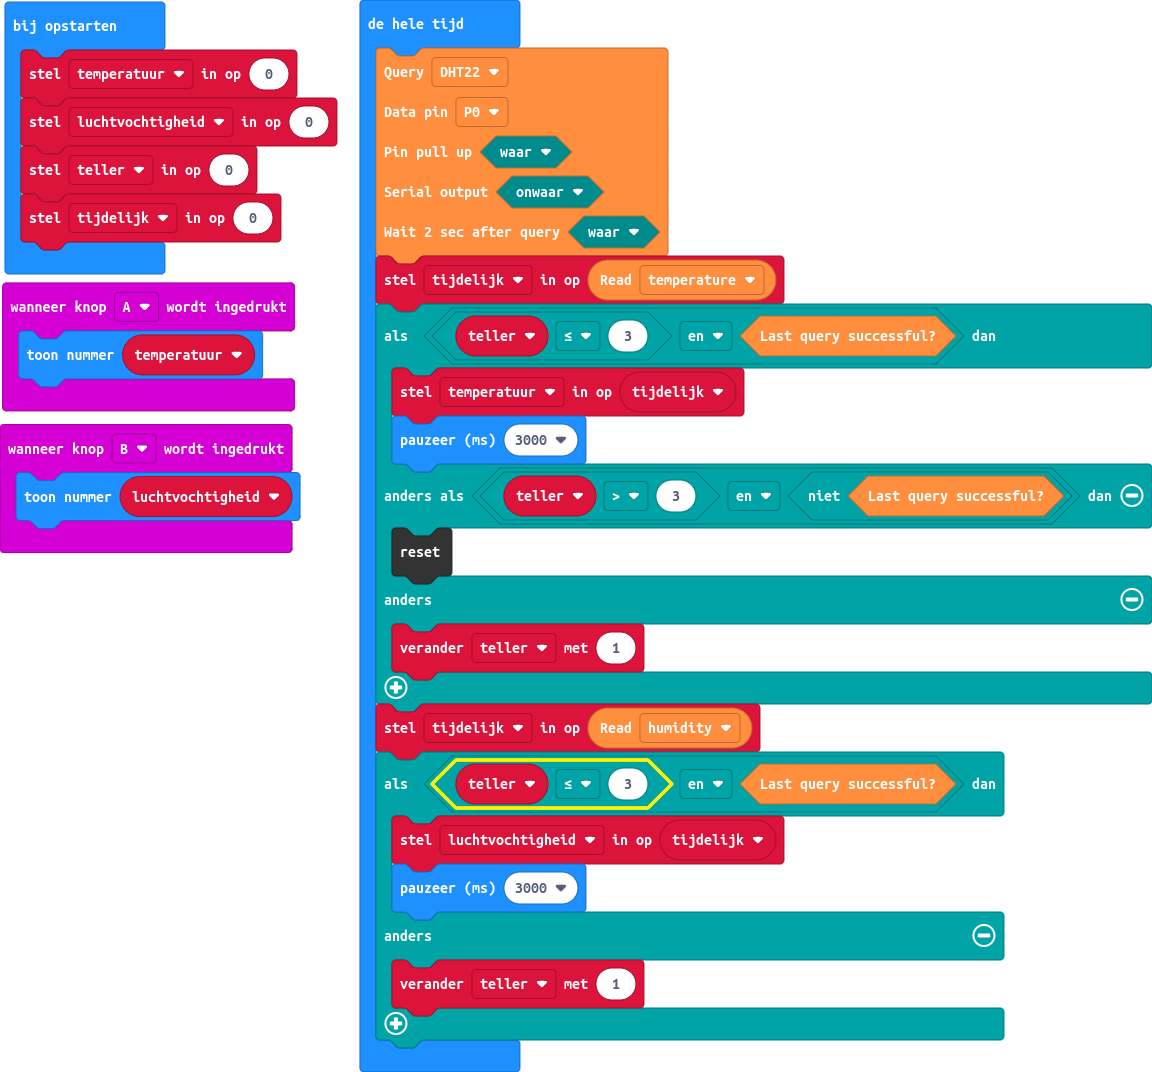
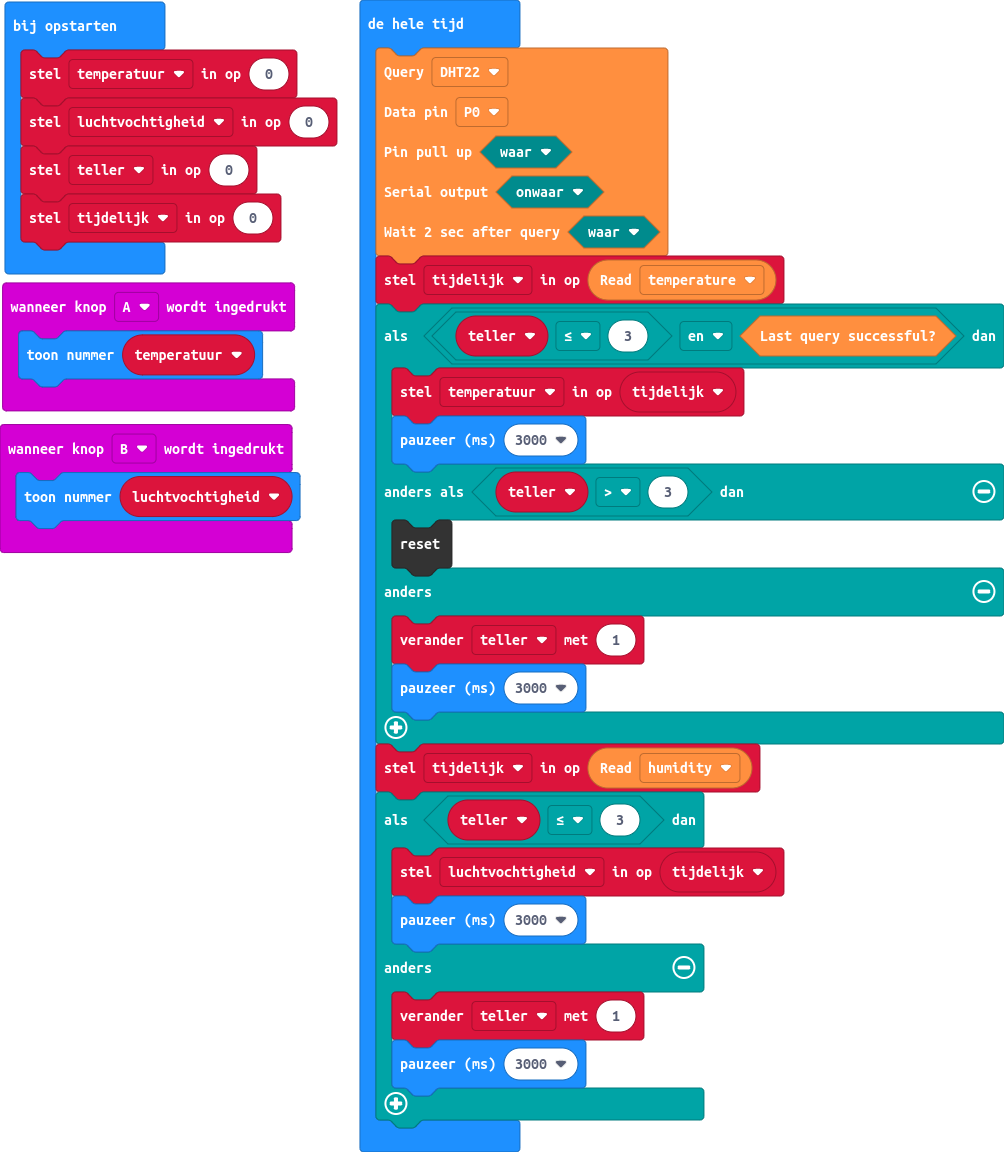
Code eenvoudiger gemaakt + extra vertraging na verhogen teller

diff --git a/main.ts b/main.ts
@@ -22,16 +22,18 @@ basic.forever(function () {
     if (teller <= 3 && dht11_dht22.readDataSuccessful()) {
         temperatuur = tijdelijk
         basic.pause(3000)
-    } else if (teller > 3 && !(dht11_dht22.readDataSuccessful())) {
+    } else if (teller > 3) {
         control.reset()
     } else {
         teller += 1
+        basic.pause(3000)
     }
     tijdelijk = dht11_dht22.readData(dataType.humidity)
-    if (teller <= 3 && dht11_dht22.readDataSuccessful()) {
+    if (teller <= 3) {
         luchtvochtigheid = tijdelijk
         basic.pause(3000)
     } else {
         teller += 1
+        basic.pause(3000)
     }
 })
